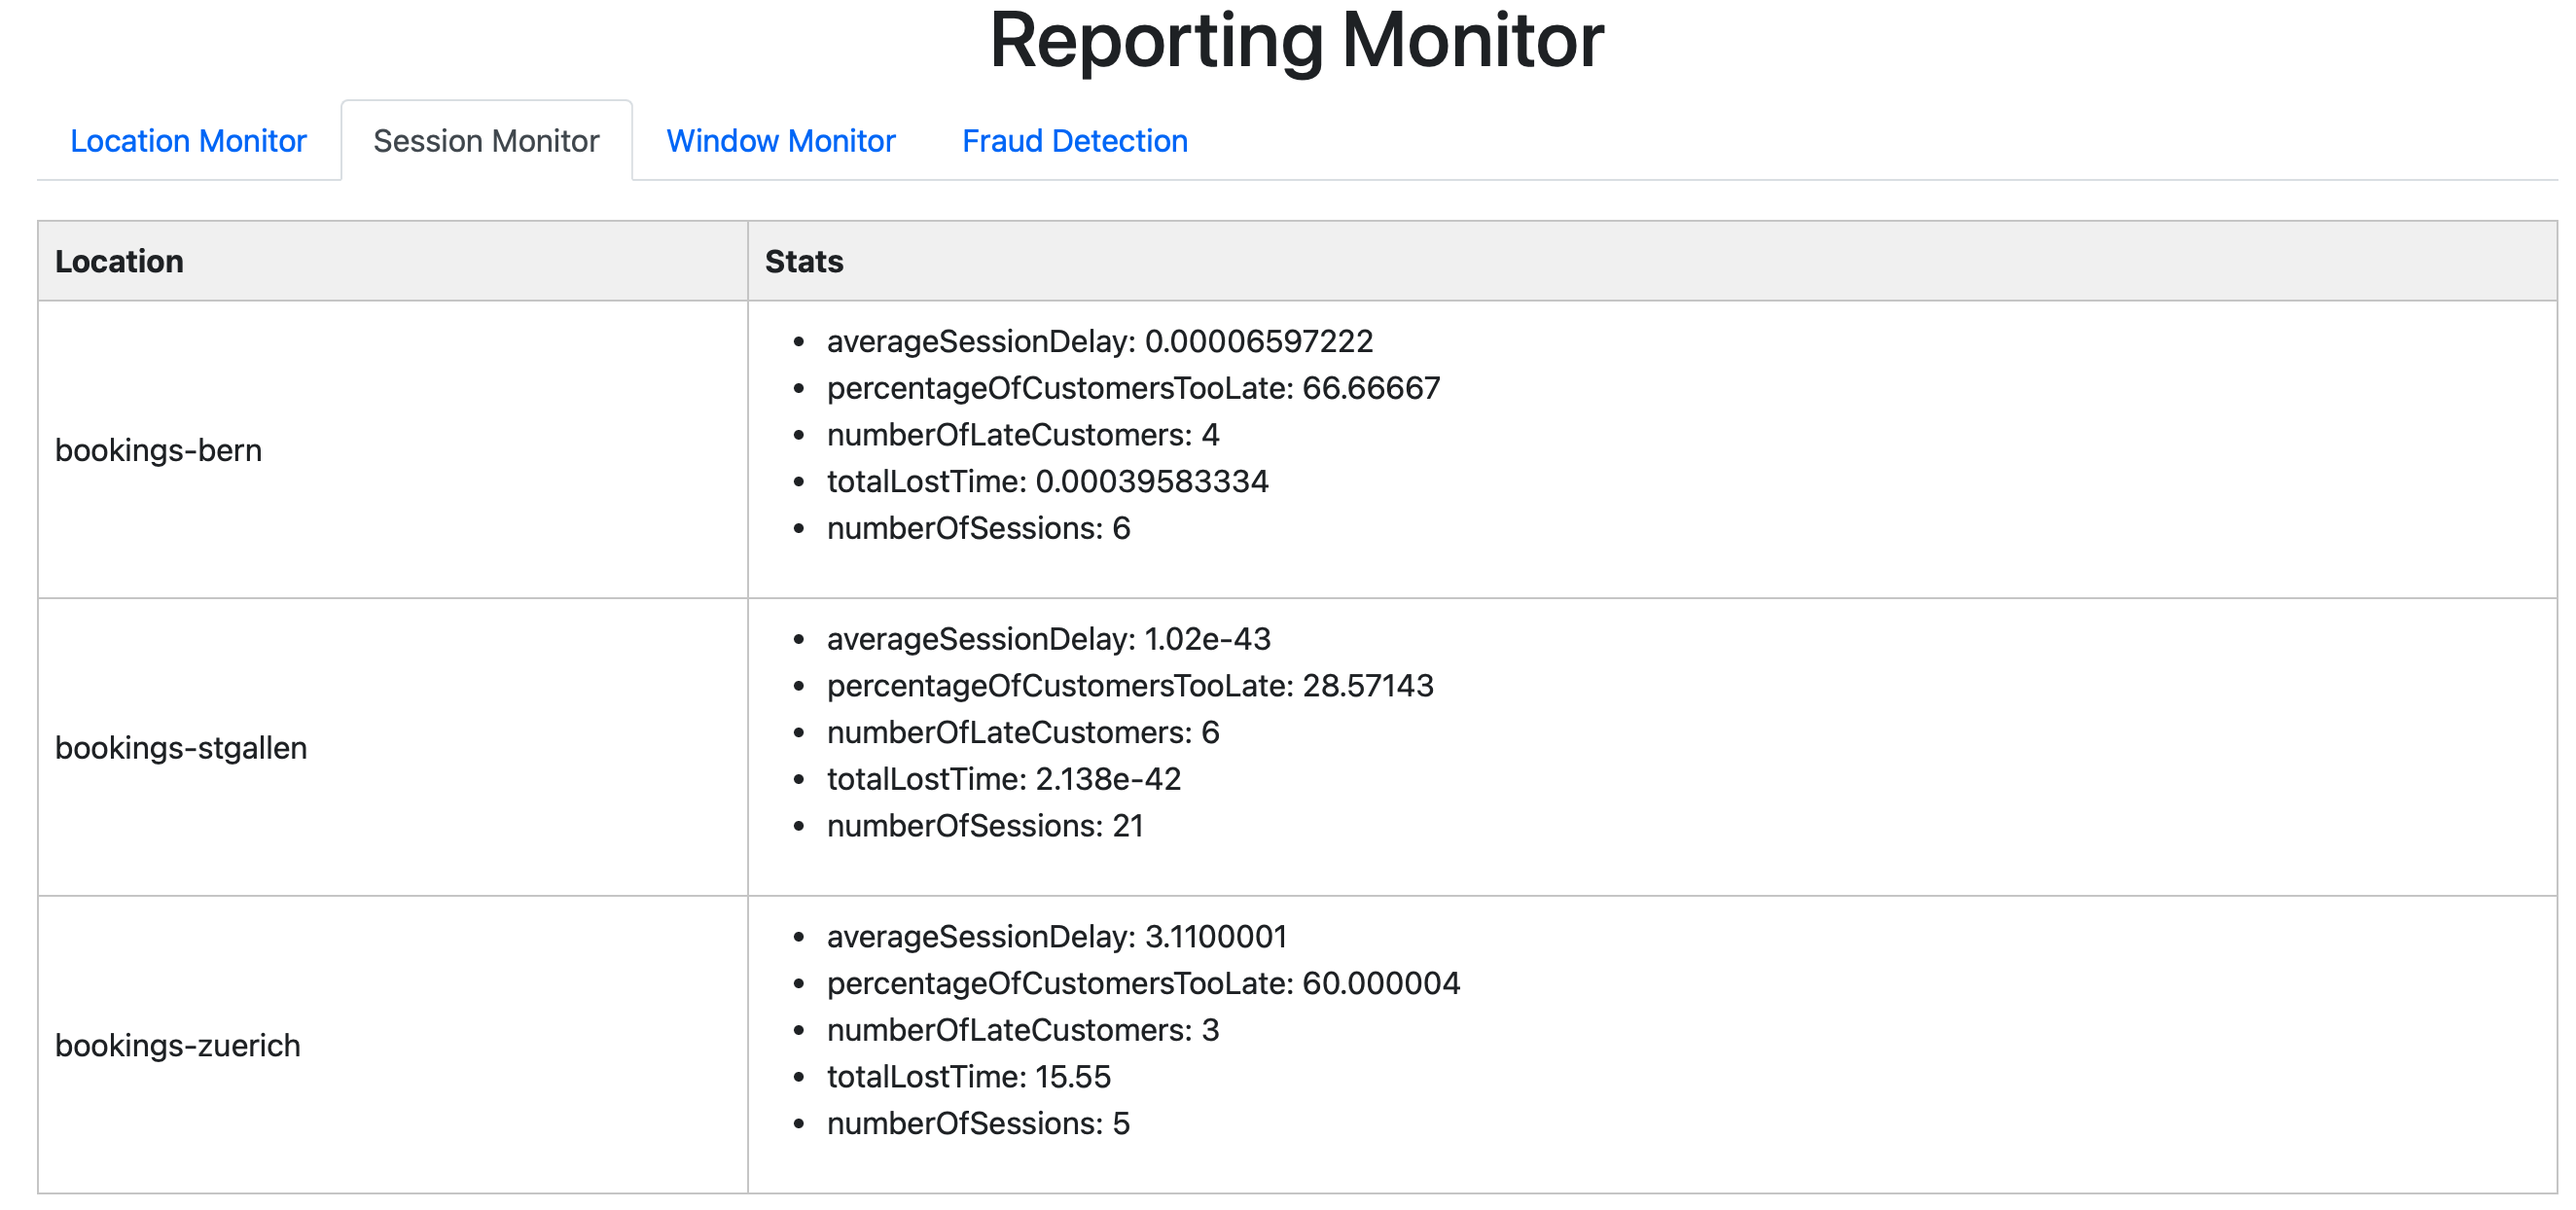
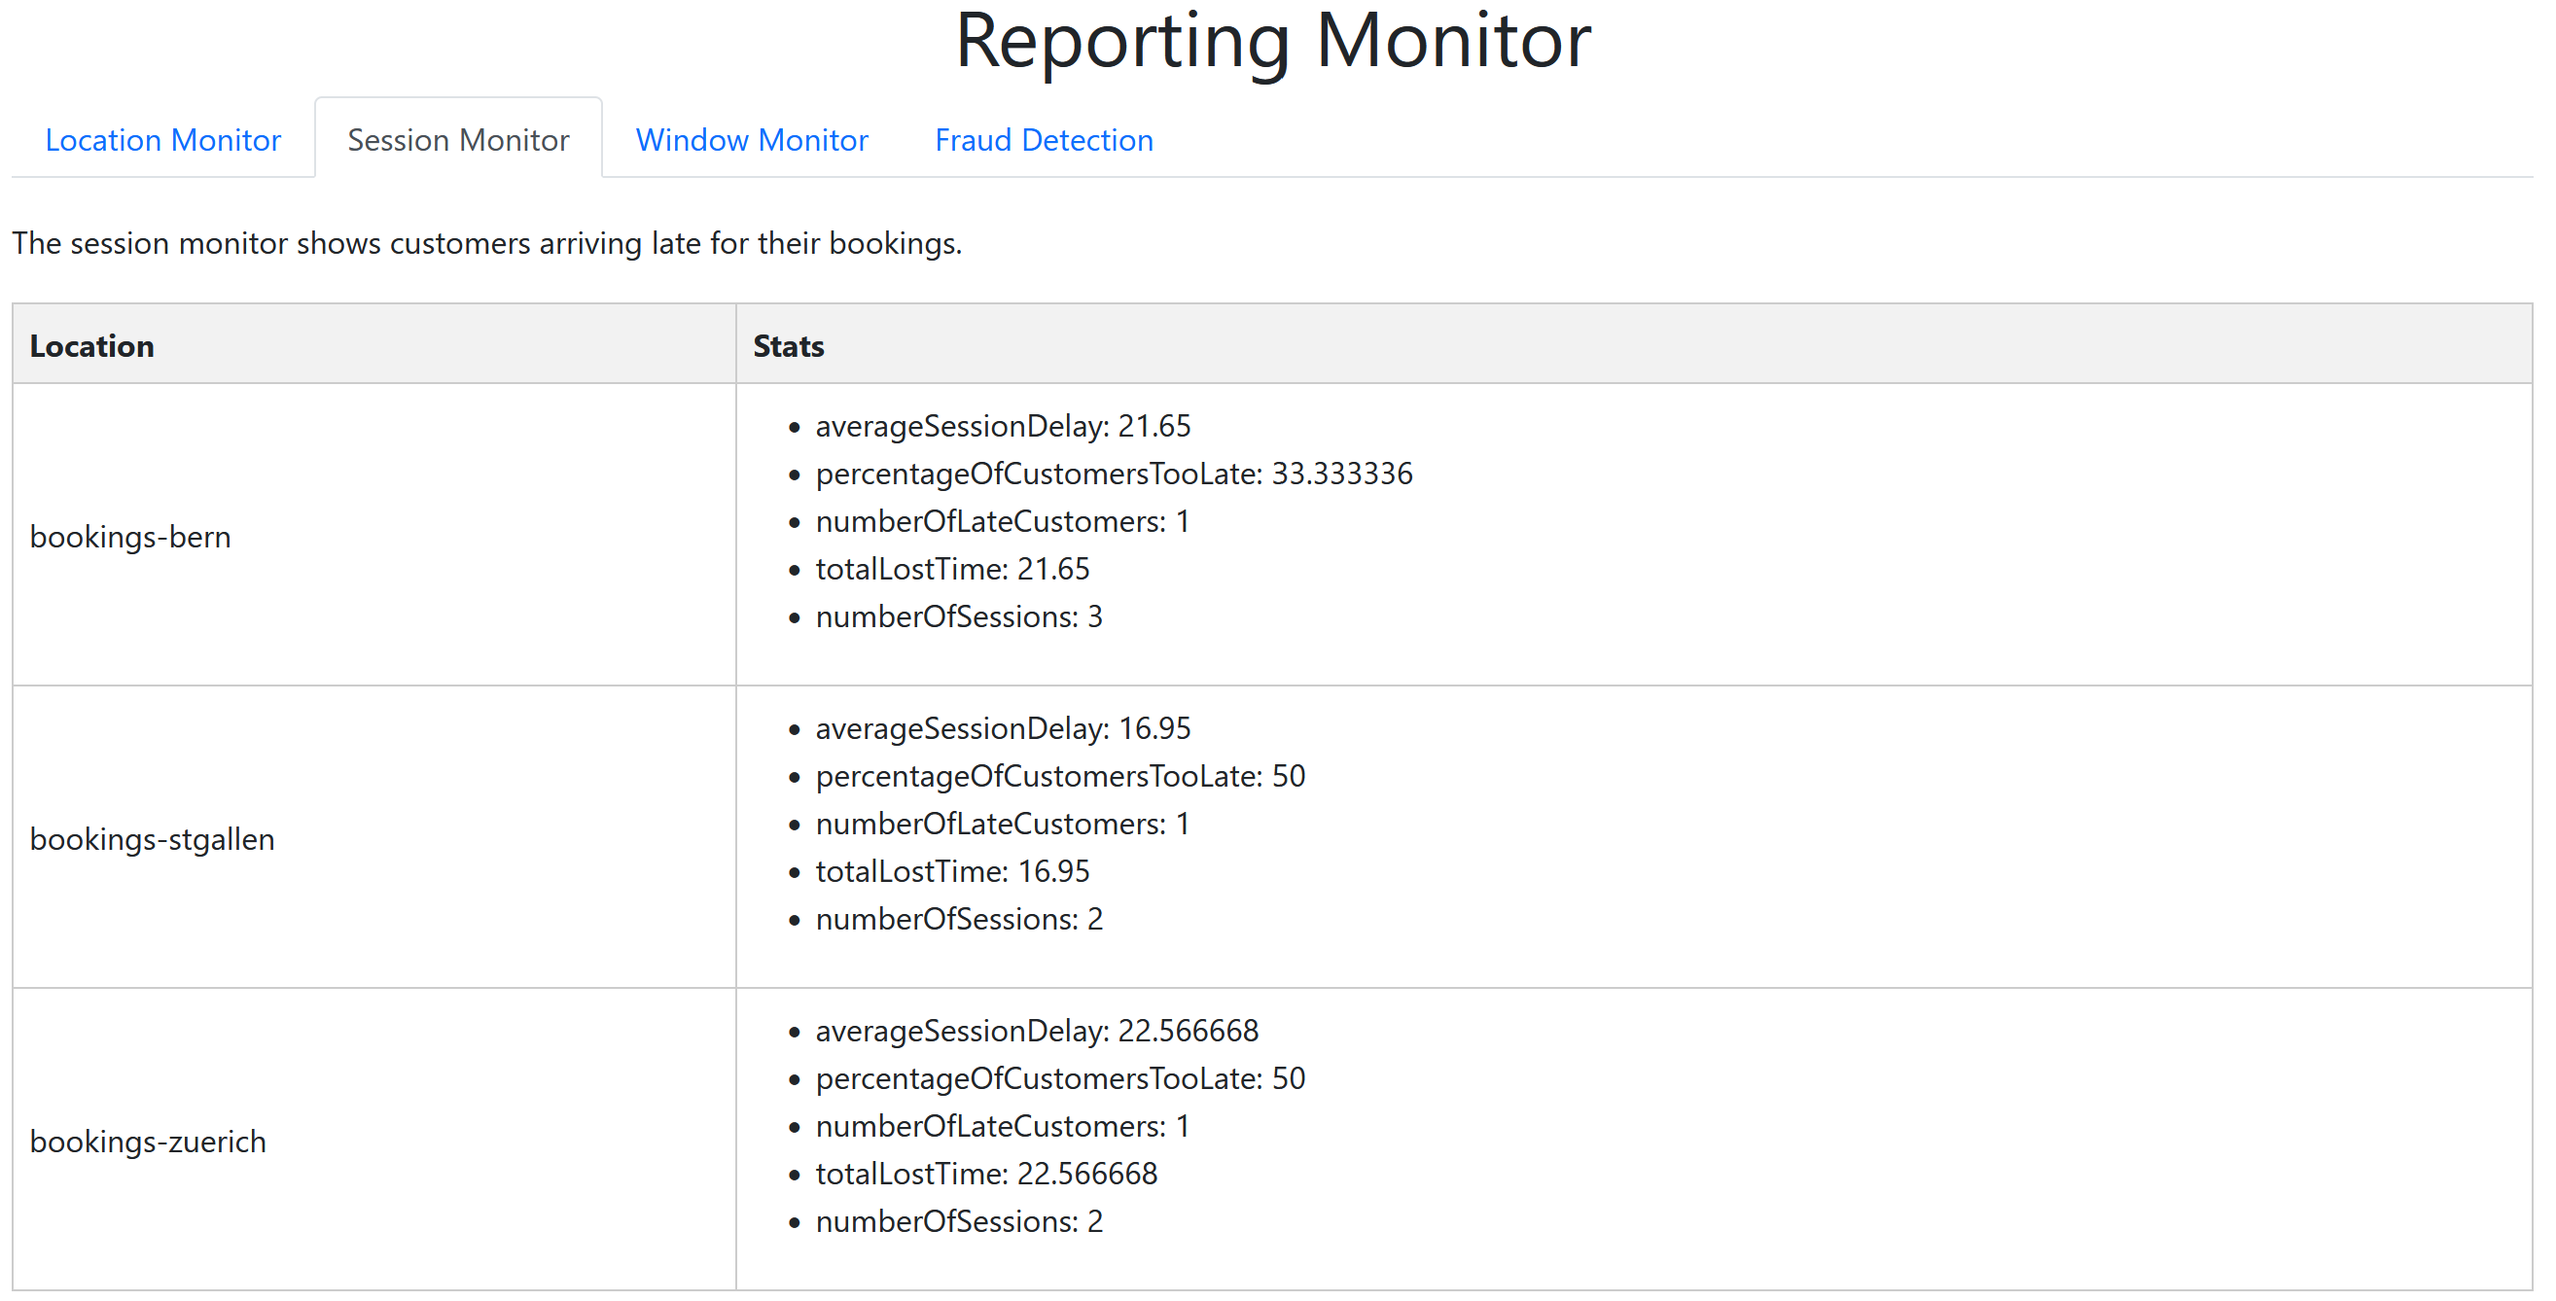
Update Readme

diff --git a/kafka/java/bookingProducer/src/main/java/io/flowing/retail/bookingProducer/BookingProducer.java b/kafka/java/bookingProducer/src/main/java/io/flowing/retail/bookingProducer/BookingProducer.java
@@ -16,7 +16,6 @@ import org.springframework.boot.SpringApplication;
 import org.springframework.boot.autoconfigure.SpringBootApplication;
 import org.springframework.context.ConfigurableApplicationContext;
 
-import java.awt.print.Book;
 import java.io.IOException;
 import java.io.InputStream;
 import java.util.List;

diff --git a/kafka/java/reporting/README.md b/kafka/java/reporting/README.md
@@ -9,17 +9,58 @@ We started off using Avro as a serialization scheme, traces of that can still be
 where we used avro to write to an output topic which was meant to make it integrable into other applications. After trying Avro for a while, we decided to switch back to a simple JSON based serialization, because working with Avro was tedious and not worth it for a student project with a pressing timeline. We recorded this decision in the 
 ADR [0004_SerializationMethodDecision](../../../docs/adr/0004_SerializationMethodDecision.md). 
 
- // ToDo: continue describing our architecture
+The main parts of our application can be found in the [BookingProducer](../../../kafka/java/bookingProducer) and in the [Reporting](../../../kafka/java/reporting) projects:
 
+The BookingProducer microservice is responsible for simulating a constant stream of bookings and real-time session infos. The class [BookingProducer](../../../kafka/java/bookingProducer/src/main/java/io/flowing/retail/bookingProducer/BookingProducer.java) is responsible for creating and maintaining the Kafka producer writing to the topic "bookings".
+Bookings are serialized using the [BookingEntry](../../../kafka/java/bookingProducer/src/main/java/io/flowing/retail/bookingProducer/model/BookingEntry.java) schema. The data stems from real bookings of the "Fusion Arena" company, who allowed us to use their booking history database for this project. The most important fields in the schema for our topologies are:
+
+- bookingId: The primary key for the stream.
+- locationId: Indicates in which branch of the fusion arena the booking takes place.
+- bookingDateTime: The time at which the booking was placed. This is relevant for our fraudulent booking monitor and the window monitor, showing on which days of the year the company gets most bookings.
+- eventDateTime: The time for which the session is booked. This is relevant for our actual session info monitor.
+
+The BookingProducer uses our [BookingRepository](../../../kafka/java/bookingProducer/src/main/java/io/flowing/retail/bookingProducer/repository/BookingRepository.java) class. The BookingRepository class uses [jdbc](https://docs.oracle.com/javase/8/docs/technotes/guides/jdbc/) to connect to the database of Fusion Arena.
+The class uses the connection to select all entries of the database and send it to the bookings topic over an extended period of time, simulating a constant stream of bookings coming in. For our fraudulent booking monitor, we use a probability method that creates "fraudulent" bookings in 10 percent of the entries. We define fraudulent bookings as a rapid succession of bookings by the same customer, indicating somebody is trying ot overwhelm our 
+system by overloading it. To simulate this we resend the fraudulent booking entries multiple times, with a timestamp indicating that the booking took place mere seconds from each other. To deal with the datetime format of Fusion Arena (here, in the topologies and in the SessionInfoProducer), we use the Java library [Joda](https://www.joda.org/joda-time/), and a datetime format string defined in [Constants](../../../kafka/java/bookingProducer/src/main/java/io/flowing/retail/bookingProducer/helpers/Constants.java). This allows us to easily manipulate dateTimes and convert them back to strings.
+
+Our second input stream comes from the [SessionInfoProducer](../../../kafka/java/bookingProducer/src/main/java/io/flowing/retail/bookingProducer/SessionInfoProducer.java), this class once again uses the BookingRepository class to access the real Fusion Arena database. It selects all bookings, and uses their eventTime field to construct an artificial [SessionInfo](../../../kafka/java/bookingProducer/src/main/java/io/flowing/retail/bookingProducer/model/SessionInfo.java) entry. The SessionInfo has the relevant field "actualStartTime", which represents when the customers actually showed up for their appointment. We use this in our session stats monitor.
+The producer sends the events to the Kafka topic "sessionInfos", we set up the simulation in such a way that we get a session info event every 30 seconds, 40 percent of all bookings are simulated to start too late by between 10 and 30 minutes. We once again use Joda for that.
+
+The actual stream processing takes place in our [Reporting](../../../kafka/java/reporting) microservice. The service sets up and starts our four topologies, which are described in detail below. Besides serialization classes, a custom partitioner used in branching, and a few helpers and constants, the microservice is responsible for providing interfaces for our interactive queries, which are described below. The interactive queries can be accessed through a [Javalin](https://javalin.io/) webpage here: [http://localhost:7070](http://localhost:7070).
+The webserver providing data by interactively querying our materialized kTables resulting from our topologies is implemented in our [ReportingService](../../../kafka/java/reporting/src/main/java/io/flowing/retail/reporting/application/ReportingService.java).
+
+## our Topologies
+
+We implemented 4 topologies for reporting purposes:
+
+- [FilterProcessesToLocationsTopology:](../../../kafka/java/reporting/src/main/java/io/flowing/retail/reporting/topology/FilterProcessesToLocationsTopology.java) This topology was meant to showcase a variety of stateless operations. It is subscribed to the bookings topic as a kStream. We first use a filter operation to remove the "timestamp" attribute, as it only represents the time when the entry was put into Fusion Arenas database. We then translate real customer names to a string hash, so we can anonymize the names. As a last step we branch and re-key the stream to use a string based on the locationId as the new keys for the three separate streams (bookings St. Gallen, bookings Bern and bookings Zürich). For our interactive queries we use an aggregate count, which displays us the amount of bookings per company branch
+
+![../../../docs//diagrams/topology_1.png](../../../docs//diagrams/topology_1.png)
+
+- [CombineStreamsAndPrepareForReportingTopology:](../../../kafka/java/reporting/src/main/java/io/flowing/retail/reporting/topology/CombineStreamsAndPrepareForReportingTopology.java) We showcase some stateful operations as well as combining multiple data streams. We use the same stateless operations as in the topology above, but we start the bookings stream off as a kTable, so we don't have to define a merge time window to combine the data. The topic is not only subscribed to the bookings topic, but also to the sessionInfos topic. We combine these two data sources into a new data schema, the [BookingEntrySessionInfo](../../../kafka/java/reporting/src/main/java/io/flowing/retail/reporting/Serialization/model/joins/BookingEntrySessionInfo.java). This schema is simply the union of all the fields of both data types. With the two streams combines, we once again group it to the locations and then use an aggregate to compile statistics about the bookings and the actual session times. These statistics can be found in the [SessionStats](../../../kafka/java/reporting/src/main/java/io/flowing/retail/reporting/Serialization/model/aggregations/SessionStats.java) model. 
+We combine key figures like average session delay time, total operation time lost due to people coming too late and number of late customers. 
+The statistics get queried by the Javalin webpage under the tab Session Monitor.
+
+
+![../../../docs/diagrams/topology_non_windowed_operations.png](../../../docs/diagrams/topology_non-windowed_operations.png)
+
+- [WindowTopology:](../../../kafka/java/reporting/src/main/java/io/flowing/retail/reporting/topology/WindowTopology.java)
+
+// TO DO: Beschreiben und Topology Bild einfügen
+
+![WindowEventDateTimeCount](../../../docs/diagrams/topology_window_eventDateTimeCount.png)
+
+- [FraudDetectionTopology:](../../../kafka/java/reporting/src/main/java/io/flowing/retail/reporting/topology/FraudDetectionTopology.java) We start off with a stream from the bookings, we extract the bookingDateTime (e.g. the date time of when the booking was placed), this will be the basis for our windowing. We group the stream by customer and then apply a sliding window, that is one minute big. This allows us to count the amount of bookings done by one customer within one minute. Our interactive query on the Javalin application queries the results for every customer that has placed more than one booking within a minute, and flags it as a possibly fraudulent booking. 
+
+![FraudDetectionTopology](../../../docs/diagrams/topology_fraud_detection.png)
 ## Topics Covered from the Lecture
 ### Stateless Operations
 The following stateless operations that we got to know in the lectures have been implemented in the [FilterProcessesToLocationsTopology](../../../kafka/java/reporting/src/main/java/io/flowing/retail/reporting/topology/FilterProcessesToLocationsTopology.java) class:
 
 - **Filtering**: We filter out the unused "timestamp" field (see JSON below), as this represents the time at which the booking has been entered on the real life SQL Server of the company
 - **Translation**: We translate the Customers name from cleartext to a hashed value, to protect customers identities. 
-- **Branching & Re-Keying**: We branch the data stream by their locationId, after which we use a re-key operation to assign the branches keys describing their booking location (Bern, St. Gallen or Zürich).
+- **Branching & Re-Keying**: We branch the data stream by their locationId, after which we use a re-key operation to assign the branches keys describing their booking location (Bern, St. Gallen or Zürich). We also use our custom [LocationPartitioner](../../../kafka/java/reporting/src/main/java/io/flowing/retail/reporting/partitioner/LocationPartitioner.java) to make sure that every event from a corresponding location gets put into the same Kafka partition.
 
-![../../../docs//diagrams/topology_1.png](../../../docs//diagrams/topology_1.png)
 
 JSON Object for better understanding of the data received in a kafka stream:
 ```json
@@ -42,7 +83,9 @@ These same stateless operations can be found in the [CombineStreamsAndPrepareFor
 
 We have implemented the following stateful operations covered in the lecture, they can be found in our [CombineStreamsAndPrepareForReportingTopology](src/main/java/io/flowing/retail/reporting/topology/CombineStreamsAndPrepareForReportingTopology.java):
 
-- **Stream Join**: We join the two streams "bookings" (which is materialized as a kTable) and "sessionInfos"
+- **Stream Join**: We join the two streams "bookings" (which is materialized as a kTable) and "sessionInfos" in our [CombineStreamsAndPrepareForReportingTopology](src/main/java/io/flowing/retail/reporting/topology/CombineStreamsAndPrepareForReportingTopology.java).
+- **Grouping**: We use multiple group operations across the topologies, in both non-windowed topologies we group by locations, to gather facts for different locations. In our [FraudDetectionTopology](../../../kafka/java/reporting/src/main/java/io/flowing/retail/reporting/topology/FraudDetectionTopology.java) we group by customers, so we can perform a count on the sliding window to detect fraudulent bookings. Furthermore, we use grouping to group our bookings based on location and event time combined, to find out the busiest days for the branches.
+- **Aggregation**: The [CombineStreamsAndPrepareForReportingTopology](../../../kafka/java/reporting/src/main/java/io/flowing/retail/reporting/topology/CombineStreamsAndPrepareForReportingTopology.java) uses aggregations to gather statistics about session infos and bookings.
 
 ### Interactive Queries
 In order to fulfill the requirement "Interactive queries" from exercise 9, several topologies have been introduced. The can all be queried from the [ReportingService](../../../kafka/java/reporting/src/main/java/io/flowing/retail/reporting/application/ReportingService.java) by applying the following methods:
